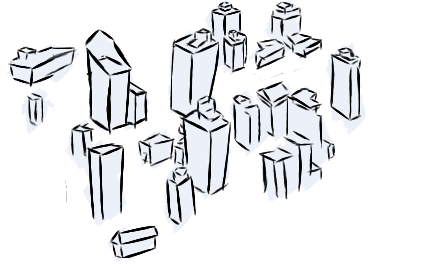
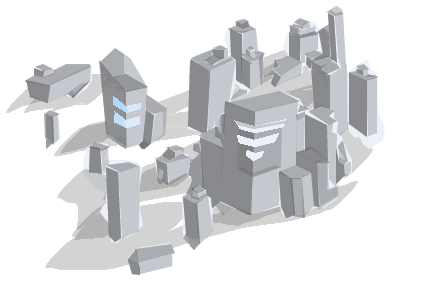
Started updating city assets, still unfinished.

diff --git a/JS/canvasScript.js b/JS/canvasScript.js
@@ -6,10 +6,10 @@
         district1 = new component(100, 80, "images/District1Redone.png", 48, 92, "image");
         paint1 = new toggleComponent(100, 80, "images/paintstroke.png", 48, 92, false);
         
-        district2 = new component(100, 90, "images/District2.png", 110, 180, "image");
-        paint2 = new toggleComponent(100, 90, "images/paintstroke.png", 110, 180, false);
+        district2 = new component(100, 100, "images/District2Redone.png", 85, 190, "image");
+        paint2 = new toggleComponent(100, 90, "images/paintstroke.png", 85, 190, false);
         
-        district3 = new component(100, 90, "images/District3.png", 250, 140, "image");
+        district3 = new component(100, 90, "images/District3Redone.png", 250, 140, "image");
         paint3 = new toggleComponent(100, 90, "images/paintstroke.png", 250, 140, false);
         
         drop1 = new toggleComponent(50, 50, "images/waterdrop.png", 250, 235, false);

diff --git a/AquaSmart.css b/AquaSmart.css
@@ -86,8 +86,8 @@ li > a:hover{
 canvas {        
     margin: 0 auto;
     display: block;
-    width: 100%;
-    height:100%;
+    width: 400px;
+    height: 375px;
     border-top: 5px solid black;
     border-bottom: 5px solid black;
     z-index: -1;
